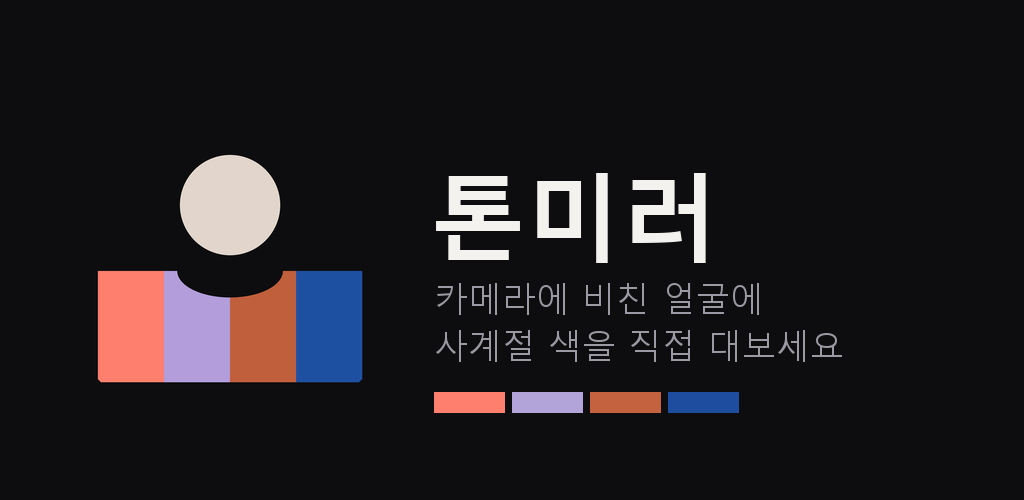
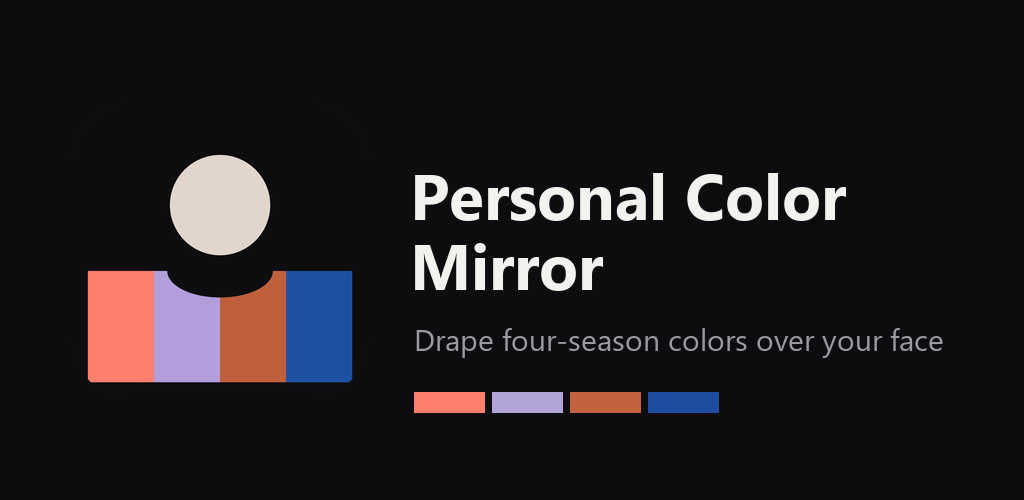
앱 이름 Personal Color Mirror로 확정 (v13)
- manifest name 'Personal Color Mirror', 홈 화면 short_name 'Color Mirror'
- 화면 제목·개인정보처리방침·스토어 문안·그래픽 이미지 갱신
- 패키지 ID(io.github.altair0622.tonemirror)와 저장소 경로는 그대로. 사용자에게 안 보이는 값

diff --git a/index.html b/index.html
@@ -4,13 +4,13 @@
 <meta charset="utf-8">
 <meta name="viewport" content="width=device-width,initial-scale=1,viewport-fit=cover">
 <meta name="description" content="카메라에 비친 얼굴에 사계절 드레이프 색을 대보는 퍼스널컬러 미러">
-<title>톤미러</title>
+<title>Personal Color Mirror</title>
 <link rel="manifest" href="manifest.json">
 <meta name="theme-color" content="#0D0D0F">
 <meta name="mobile-web-app-capable" content="yes">
 <meta name="apple-mobile-web-app-capable" content="yes">
 <meta name="apple-mobile-web-app-status-bar-style" content="black-translucent">
-<meta name="apple-mobile-web-app-title" content="톤미러">
+<meta name="apple-mobile-web-app-title" content="Color Mirror">
 <link rel="apple-touch-icon" href="apple-touch-icon.png">
 <link rel="icon" type="image/png" sizes="192x192" href="icon-192.png">
 <link rel="preconnect" href="https://cdn.jsdelivr.net" crossorigin>
@@ -345,11 +345,11 @@
 <script>
 (function(){
   "use strict";
-  var APP_VERSION = "12";
+  var APP_VERSION = "13";
 
   /* ---- 언어 ---- 기기 언어가 한국어면 ko, 아니면 en. 화면의 EN/한국어 버튼으로 바꾸면 기억한다. */
   var T = {
-    ko:{ title:"톤미러", compare:"직전 색 비교", guide:"가이드", keep:"이 색 담기", unkeep:"담기 취소", kept:"담은 색",
+    ko:{ title:"Personal Color Mirror", compare:"직전 색 비교", guide:"가이드", keep:"이 색 담기", unkeep:"담기 취소", kept:"담은 색",
          hint:"좌우로 밀어 색을 넘기세요 · 손잡이를 끌면 드레이프 높이",
          sheetTitle:"담은 색", lede:"얼굴빛이 맑아 보였던 색만 담으세요. 한 계절에 몰린다면 그쪽이 유력합니다. 다만 조명이 바뀌면 결과도 바뀌니, 다른 날 자연광에서 한 번 더 해보고 겹치는지 확인하세요.",
          bySeason:"계절 분포", nColors:function(n){ return n+"색"; }, list:"목록", back:"돌아가기", clear:"전체 지우기",
@@ -364,7 +364,7 @@
          soft:"흐리게", base:"기본", vivid:"선명하게",
          camFront:"셀프", camRear:"상대방", camHint:"전면/후면 카메라 전환. 후면으로 하면 다른 사람이 폰을 들고 대볼 수 있어요",
          lockOff:"빛 자동", lockOn:"빛 고정됨", lockHint:"카메라가 색을 계속 다시 맞추지 않도록 화이트밸런스·노출을 지금 값에 고정합니다" },
-    en:{ title:"Tone Mirror", compare:"Previous", guide:"Guide", keep:"Keep this color", unkeep:"Unkeep", kept:"Kept",
+    en:{ title:"Personal Color Mirror", compare:"Previous", guide:"Guide", keep:"Keep this color", unkeep:"Unkeep", kept:"Kept",
          hint:"Swipe to change color · drag the handle to move the drape",
          sheetTitle:"Kept colors", lede:"Keep only the colors that made your face look clearer. If they cluster in one season, that season is likely yours. Lighting changes the result, so try again another day in daylight and see what overlaps.",
          bySeason:"By season", nColors:function(n){ return n+(n===1?" color":" colors"); }, list:"List", back:"Back", clear:"Clear all",

diff --git a/privacy.html b/privacy.html
@@ -3,7 +3,7 @@
 <head>
 <meta charset="utf-8">
 <meta name="viewport" content="width=device-width,initial-scale=1">
-<title>개인정보처리방침 — 톤미러</title>
+<title>개인정보처리방침 — Personal Color Mirror</title>
 <meta name="theme-color" content="#0D0D0F">
 <style>
   :root{color-scheme:dark}
@@ -22,11 +22,11 @@
 </head>
 <body>
 <main>
-<a class="back" href="./">← 톤미러로 돌아가기</a>
+<a class="back" href="./">← Personal Color Mirror로 돌아가기</a>
 <h1>개인정보처리방침</h1>
-<div class="meta">톤미러 · 시행일 2026년 9월 17일</div>
+<div class="meta">Personal Color Mirror · 시행일 2026년 9월 17일</div>
 
-<p>톤미러(이하 "앱")는 카메라 화면 위에 사계절 드레이프 색을 겹쳐 보여 주는 퍼스널컬러 도구입니다.
+<p>Personal Color Mirror(이하 "앱")는 카메라 화면 위에 사계절 드레이프 색을 겹쳐 보여 주는 퍼스널컬러 도구입니다.
 앱은 <strong>개인정보를 수집하지 않으며, 어떤 데이터도 외부 서버로 전송하지 않습니다.</strong>
 아래에 앱이 기기에서 다루는 정보와 그 처리 방식을 밝힙니다.</p>
 
@@ -60,7 +60,7 @@ jsDelivr는 접속 IP 주소 등 기술 정보를 자체 정책에 따라 처리
 
 <section class="en">
 <h2>Privacy Policy (English summary)</h2>
-<p><strong>Tone Mirror (톤미러) does not collect any personal data and sends nothing to any server.</strong></p>
+<p><strong>Personal Color Mirror does not collect any personal data and sends nothing to any server.</strong></p>
 <ul>
   <li><strong>Camera:</strong> the front camera feed is displayed on screen only. It is never recorded, stored, or transmitted.</li>
   <li><strong>Photos:</strong> a photo you choose is shown in device memory only and discarded when the app closes.</li>

diff --git a/sw.js b/sw.js
@@ -1,7 +1,7 @@
-/* 톤미러 — service worker
+/* Personal Color Mirror — service worker
    앱 껍데기(index, manifest, 아이콘)는 캐시에서 먼저 열고,
    새 버전이 올라오면 다음 실행 때 자동으로 바뀝니다. */
-var VERSION = "drape-v12"; // index.html의 APP_VERSION과 숫자를 맞춘다
+var VERSION = "drape-v13"; // index.html의 APP_VERSION과 숫자를 맞춘다
 var SHELL = ["./", "./index.html", "./manifest.json", "./icon-192.png", "./icon-512.png", "./icon-maskable-512.png"];
 
 self.addEventListener("install", function (e) {
